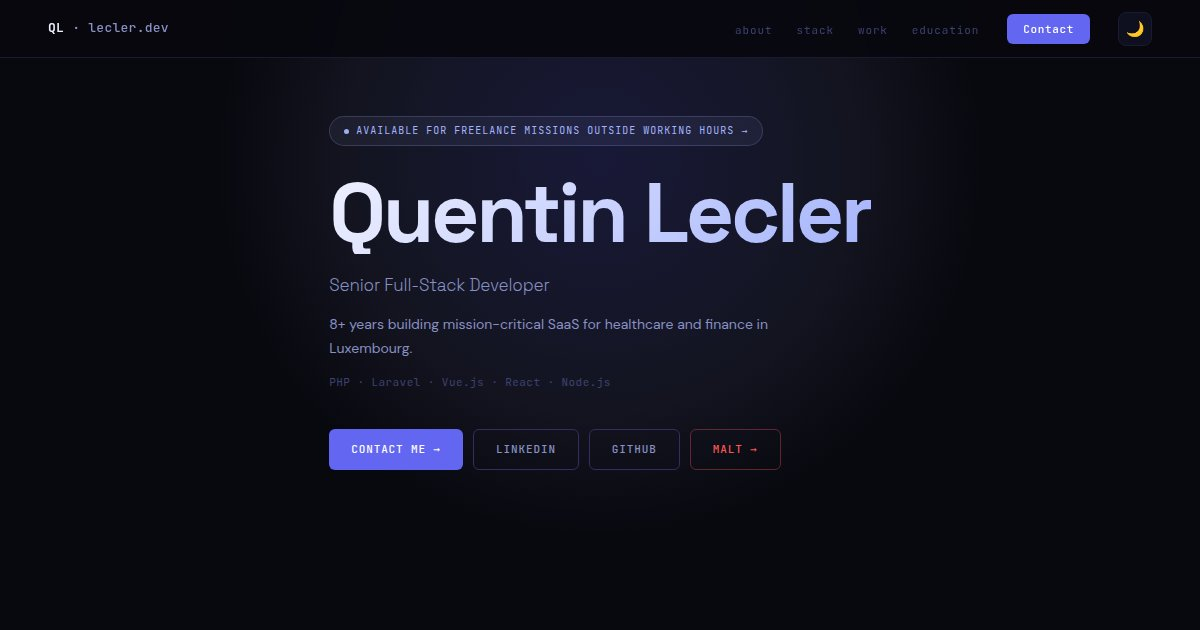
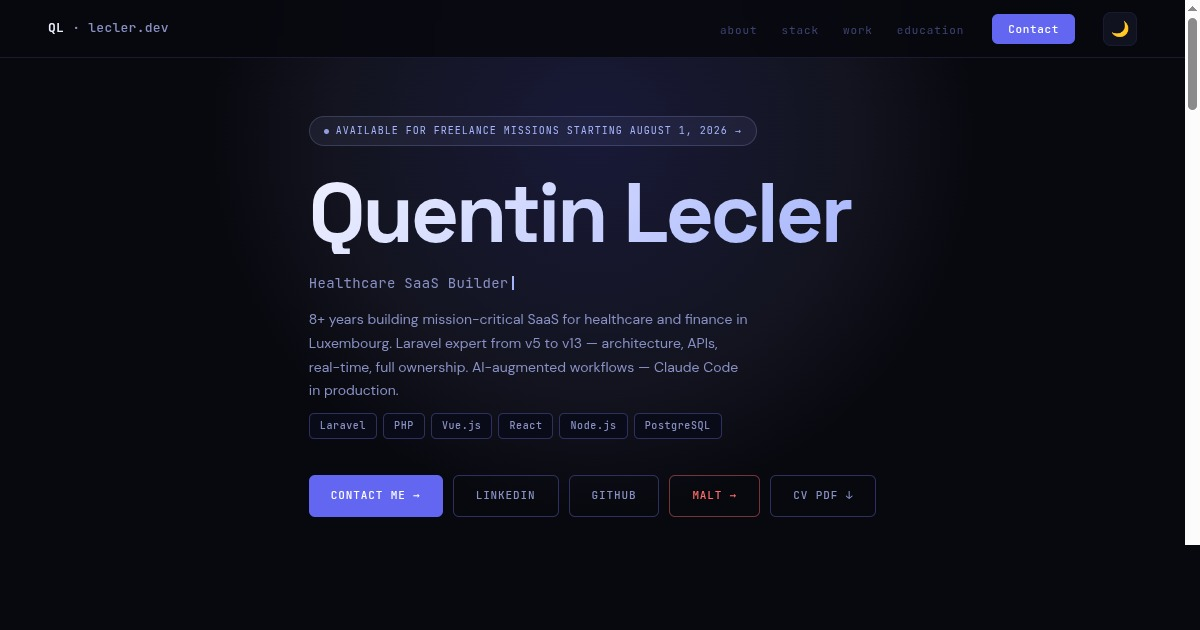
chore: regenerate og.jpg to match current hero and fix stale doc reference
The OG preview image still showed the old tagline and availability copy.
CLAUDE.md also referenced og.png, which no longer exists.

diff --git a/CLAUDE.md b/CLAUDE.md
@@ -32,7 +32,7 @@ Then open `http://localhost:8080`.
 
 ## Assets
 
-- `og.png` — Open Graph preview image. Must be regenerated manually when hero content changes (see commit history for context).
+- `og.jpg` — Open Graph preview image. Must be regenerated manually when hero content changes (see commit history for context).
 - `CNAME` — Contains `lecler.dev` for GitHub Pages custom domain.
 
 ## Deployment
